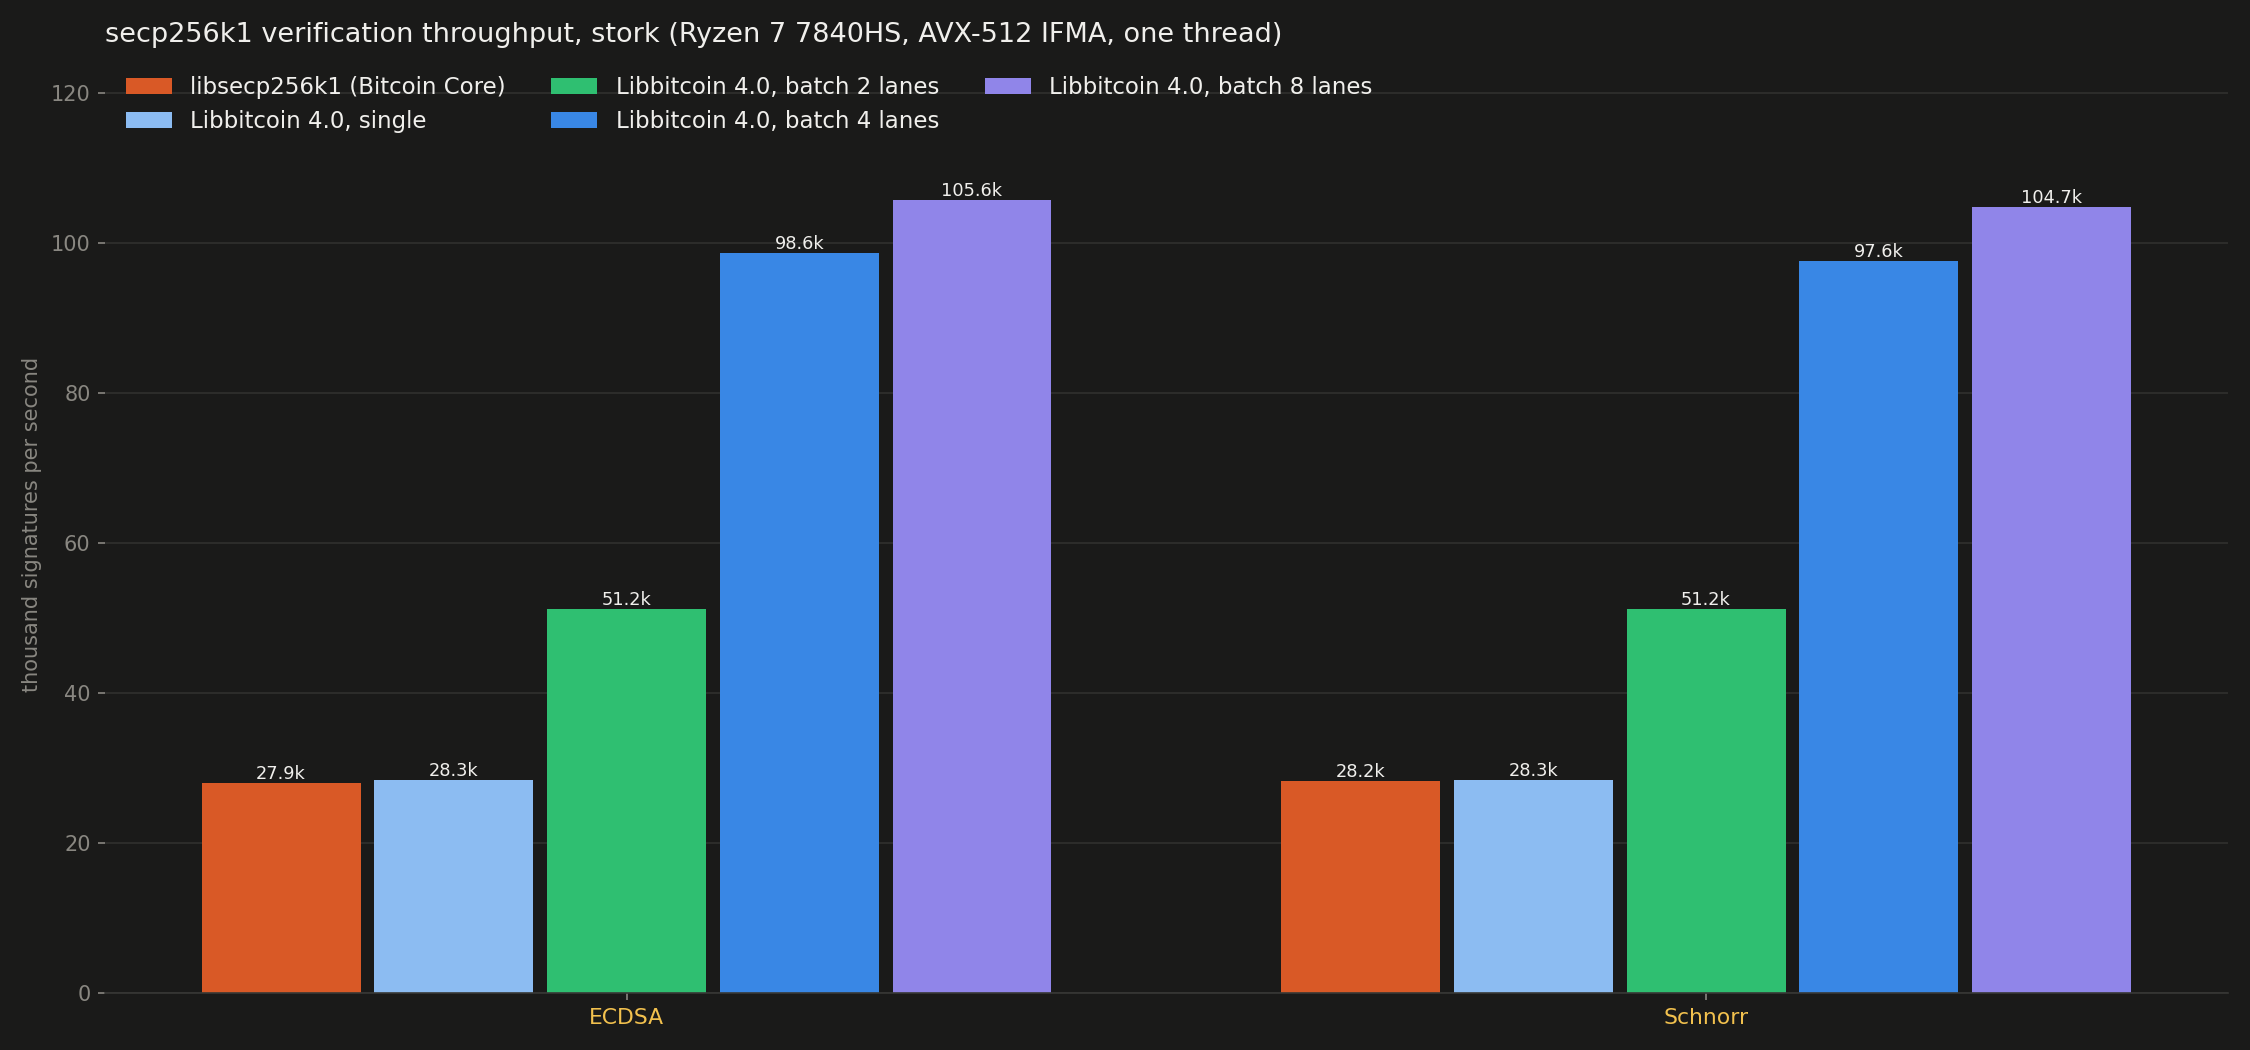
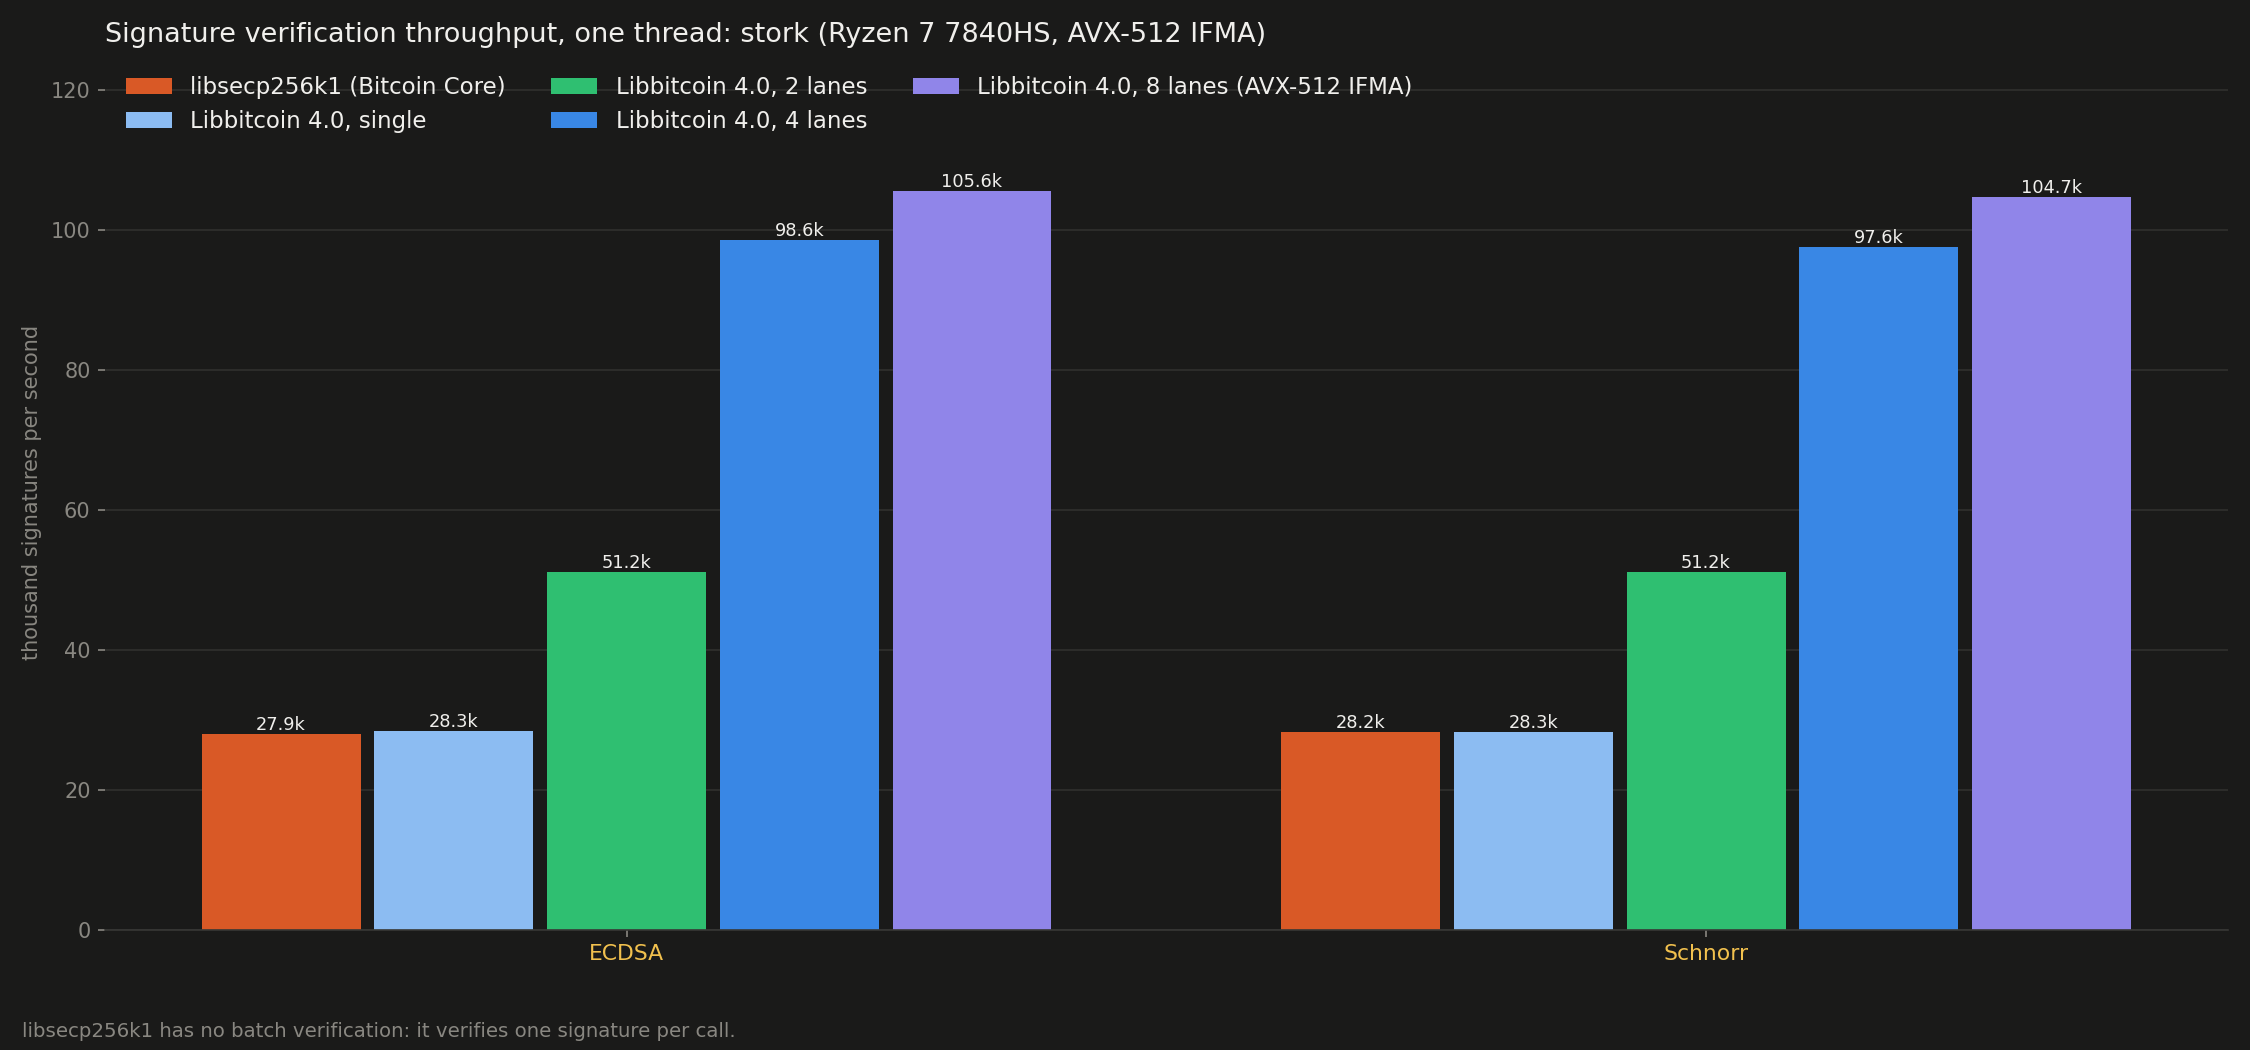
Align signature verification plots.

diff --git a/performance.html b/performance.html
@@ -330,21 +330,21 @@
 
     <h2>Cryptography</h2>
     <div class="gallery">
+      <figure class="shot" data-full="performance/crypto-secp-lanes.png" tabindex="0">
+        <h3>Signature verification: scalar</h3>
+        <img src="performance/crypto-secp-lanes.png" alt="Signature verification: scalar" loading="lazy">
+      </figure>
       <figure class="shot" data-full="performance/crypto-chacha-vs-core.png" tabindex="0">
         <h3>BIP-324: comparative</h3>
         <img src="performance/crypto-chacha-vs-core.png" alt="BIP-324: comparative" loading="lazy">
-      </figure>
-      <figure class="shot" data-full="performance/crypto-secp-lanes.png" tabindex="0">
-        <h3>secp256k1 verification by lane width</h3>
-        <img src="performance/crypto-secp-lanes.png" alt="secp256k1 verification by lane width" loading="lazy">
       </figure>
     </div>
 
     <h2>Batching</h2>
     <div class="gallery">
       <figure class="shot" data-full="performance/crypto-secp-batch.png" tabindex="0">
-        <h3>Signature verification: comparative</h3>
-        <img src="performance/crypto-secp-batch.png" alt="Signature verification: comparative" loading="lazy">
+        <h3>Signature verification: CPU and GPU batch</h3>
+        <img src="performance/crypto-secp-batch.png" alt="Signature verification: CPU and GPU batch" loading="lazy">
       </figure>
       <figure class="shot" data-full="performance/scan-silent-batch.png" tabindex="0">
         <h3>Silent payment indexing: GPU</h3>
